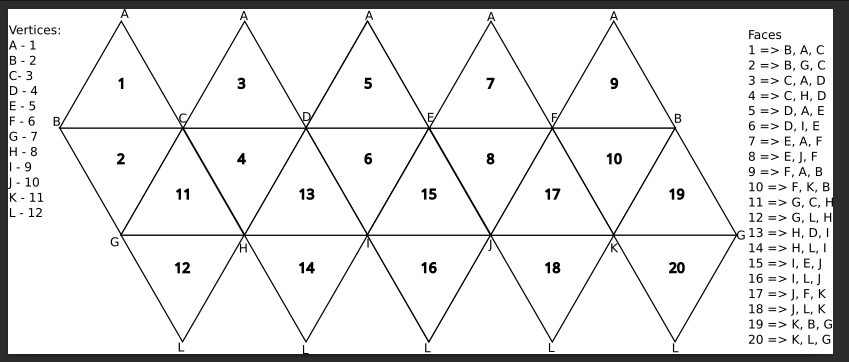
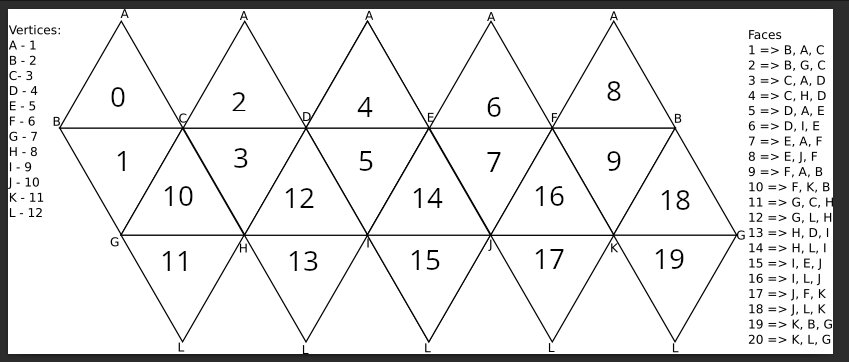
Label the icosahedron figure with code face indices
The net in gp-proj/README.md numbered its triangles 1-20, matching the
"Faces" legend beside it, but the code indexes faces 0-19 -- the
convention settled in #144/#145 after #122. Anyone reading the figure
against `create_faces` had to subtract one, silently, on every face.

diff --git a/gp-proj/README.md b/gp-proj/README.md
@@ -376,6 +376,8 @@ Faces are adjacent if they share **exactly 2 vertices**.
 The icosahedron is laid out on the unit sphere with two vertices being on the poles, and the rest being spread across the equator. Here's a representation in 2D space of the icosahedron:
 ![alt text](src/assets/icosahedron.png)
 
+The numbers inside the triangles are the **face indices used in the code**, 0-19, as listed by `icosahedron::create_faces`. The "Faces" legend on the right is the same table written 1-20, so legend entry *n* is face index *n - 1*. Even-numbered faces point upward in the net and odd-numbered faces downward; the projection relies on that alternation (`is_upward = face % 2 == 0`, `vgc.rs`).
+
 ## Projections
 ### Vertex Great Circle (van Leeuwen or slice-and-dice projection)
 This projection comes from this [article](https://www.tandfonline.com/doi/abs/10.1559/152304006779500687). The projection divides the face of the polyhedron into equilateral triangles by the number of existente vertices, and splits those triangle in two rectangle triangles. From there it finds the point in of those two triangles, and "slices" it to get a point D on the opposite side of the triangle, then it "dices" to get the point P from D. To explain it further what is happening in the code, here's the following:
